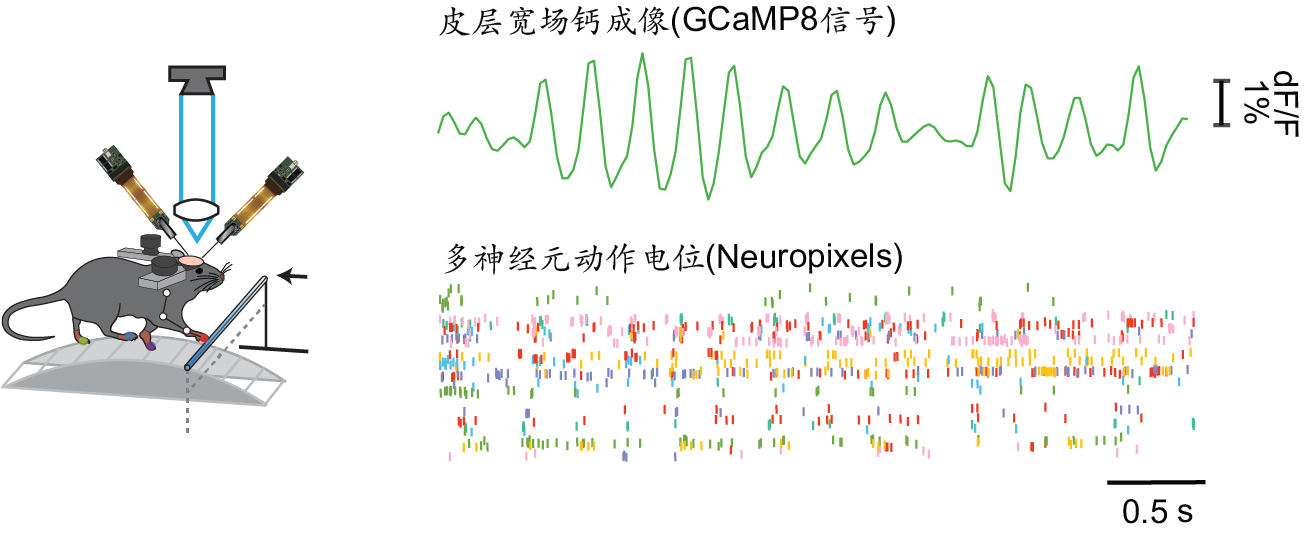
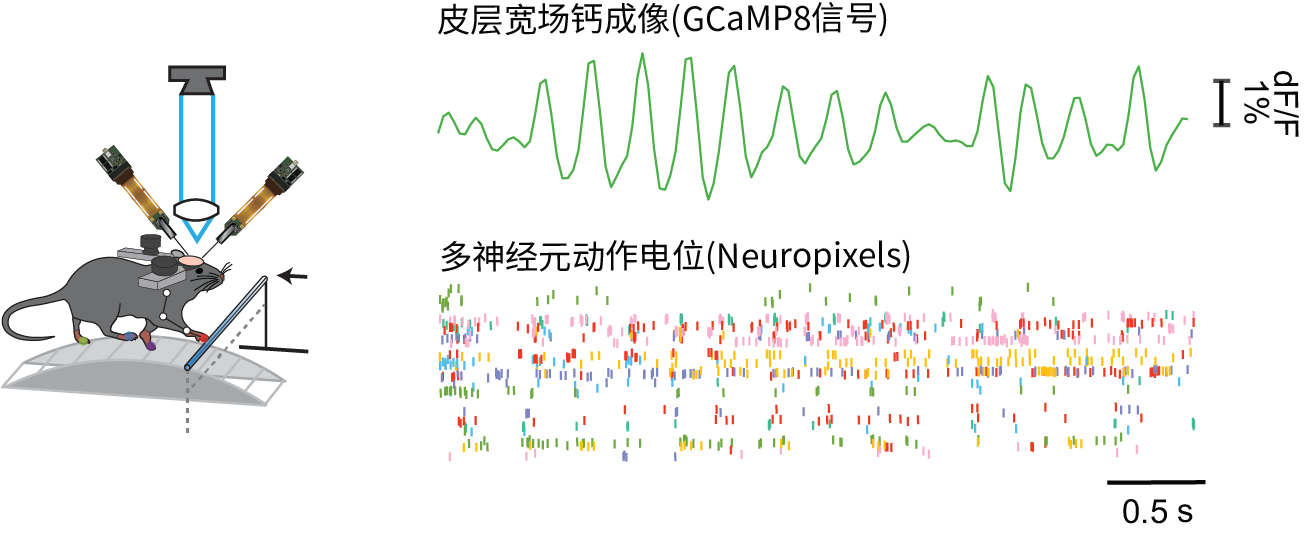
Update typography: system fonts with responsive scaling, updated Chinese images

Changed region(s): [[0.3374, 0.0, 0.7055, 0.0899], [0.3374, 0.4494, 0.7055, 0.5094]]

diff --git a/_sass/_variables.scss b/_sass/_variables.scss
@@ -37,6 +37,11 @@ $black-color: #000000 !default;
 $code-bg-color-light: rgba($purple-color, 0.05);
 $code-bg-color-dark: #2c3237 !default;
 
+// Font families
+$font-family-sans-serif: Arial, "Helvetica Neue", Helvetica, "PingFang SC", "Microsoft YaHei", "Hiragino Sans GB", "Heiti SC", sans-serif !default;
+$font-family-serif: Georgia, "Times New Roman", serif !default;
+$font-family-monospace: "SF Mono", "Fira Code", "Fira Mono", "Roboto Mono", Menlo, Monaco, Consolas, monospace !default;
+
 // Font awesome location
 $fa-font-path: "../webfonts";
 

diff --git a/_sass/_base.scss b/_sass/_base.scss
@@ -7,6 +7,20 @@ body {
   overflow-x: hidden;
 }
 
+// Responsive base font-size scaling (matching smart.org.cn)
+html {
+  font-size: 16px;
+  @media (max-width: 1800px) { font-size: 15px; }
+  @media (max-width: 1681px) { font-size: 14px; }
+  @media (max-width: 1441px) { font-size: 13px; }
+  @media (max-width: 1367px) { font-size: 12px; }
+}
+
+body {
+  font-family: $font-family-sans-serif;
+  line-height: 1.5;
+}
+
 // Typography
 
 p,
